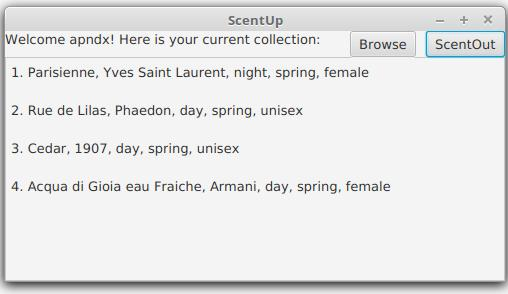
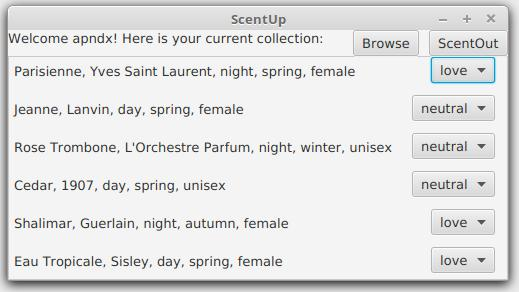
dokumentointia: arkkitehtuuria, käyttöohjetta, sekvenssikaavioita

Changed region(s): [[0.0, 0.0, 1.0, 0.9863]]

diff --git a/ScentUp/src/main/java/scentup/ui/ScentUpGui.java b/ScentUp/src/main/java/scentup/ui/ScentUpGui.java
@@ -91,20 +91,6 @@ public class ScentUpGui extends Application {
     }
 
     /**
-     * Renders the scent list of the UserScents for the user logged in
-     *
-     */
-    public void redrawUserHasScentsList() {
-
-        scentNodes.getChildren().clear();
-
-        List<Scent> scentsUserHas = scentUpService.getScentsUserHas();
-        scentsUserHas.forEach(scent -> {
-            scentNodes.getChildren().add(createScentNode(scent));
-        });
-    }
-
-    /**
      * Renders the userScent list of the UserScents for the user logged in
      *
      */
@@ -170,7 +156,6 @@ public class ScentUpGui extends Application {
             } catch (SQLException ex) {
                 Logger.getLogger(ScentUpGui.class.getName()).log(Level.SEVERE, null, ex);
             }
-            //redrawUserHasScentsList();
             redrawUserHasNotScentsList();
             redrawUserHasUserScentsList();
         });
@@ -254,13 +239,13 @@ public class ScentUpGui extends Application {
         // stuff needed to login, add user's collection page
         HBox loginGroup = new HBox(10);
         TextField userNameLogin = new TextField("username");
-        Button loginButton = new Button("ScentIn");  //loginbutton
+        Button loginButton = new Button("ScentIn");
         loginGroup.setSpacing(20);
         loginGroup.getChildren().addAll(userNameLogin, loginButton);
 
         loginButton.setOnAction(e -> {
 
-            // first setup
+            // button that takes to loggedIn scene
             String username = userNameLogin.getText();
             menuLabel.setText("Welcome " + username + "! Here is your current collection: ");
             try {
@@ -301,9 +286,6 @@ public class ScentUpGui extends Application {
         loginPane.getChildren().addAll(loginMessage, loginGroup, addNewUserButton, newScentButton);
         loginScene = new Scene(loginPane);
 
-        
-        
-        
         // stuff needed for add new user page
         VBox newUserPane = new VBox(10);
 
@@ -358,9 +340,6 @@ public class ScentUpGui extends Application {
         newUserPane.getChildren().addAll(creationMessage, newUsernamePane, newNamePane, createUserButton, outFromCreateUserButton);
         newUserScene = new Scene(newUserPane, 400, 250);
 
-        
-        
-        
         // stuff for new scent page
         VBox newScentPane = new VBox(10); // group pane for all the elements
 
@@ -420,9 +399,14 @@ public class ScentUpGui extends Application {
         outOfScentCreation.setOnAction(e -> {
 
             if (scentUpService.getLoggedIn() == null) {
+
+                ScentNameInput.setText("");
+                scentBrandInput.setText("");
                 primaryStage.setScene(loginScene);
             } else {
-
+                ScentNameInput.setText("");
+                scentBrandInput.setText("");
+                      
                 primaryStage.setScene(browseScene);
             }
 
@@ -436,7 +420,7 @@ public class ScentUpGui extends Application {
             String scentbrand = scentBrandInput.getText();
 
             if (scentname.length() < 1 || scentbrand.length() < 1) {
-                creationMessage.setText("username or name too short");
+                creationMessage.setText("name or brand of the scent too short");
                 creationMessage.setTextFill(Color.RED);
             } else {
                 try {
@@ -501,10 +485,6 @@ public class ScentUpGui extends Application {
 
         newScentScene = new Scene(newScentPane, 400, 300);
 
-        
-        
-        
-        
         // main scene, logged in
         ScrollPane scentScrollbar = new ScrollPane();
         BorderPane mainPane = new BorderPane(scentScrollbar);
@@ -534,10 +514,7 @@ public class ScentUpGui extends Application {
         redrawUserHasUserScentsList();
         scentScrollbar.setContent(userScentNodes);
         mainPane.setTop(menuPane);
-        
-        
-        
-        
+
         //browse page 
         ScrollPane browseScrollbar = new ScrollPane();
         BorderPane browsePane = new BorderPane(browseScrollbar);
@@ -571,9 +548,6 @@ public class ScentUpGui extends Application {
         browseScrollbar.setContent(browseableScentNodes);
         browsePane.setTop(browseMenuPane);
 
-        
-        
-        
         // seutp primary stage
         primaryStage.setTitle("ScentUp");
         primaryStage.setScene(loginScene);

diff --git a/ScentUp/src/test/java/scentup/domain/ServiceTest.java b/ScentUp/src/test/java/scentup/domain/ServiceTest.java
@@ -199,5 +199,14 @@ public class ServiceTest {
         userScents.delete(testuser.getUserId(), testscent2.getScentId());
 
     }
+    
+    @Test
+    public void loggedInHandledCorrectly() throws SQLException {
+        service.login(randomuser);
+        assertEquals(testuser, service.getLoggedIn());
+        service.logout();
+        assertNull(service.getLoggedIn());
+
+    }
 
 }

diff --git a/dokumentointi/arkkitehtuuri.md b/dokumentointi/arkkitehtuuri.md
@@ -4,12 +4,9 @@
 
 Ohjelman rakenne noudattelee kolmitasoista kerrosarkkitehtuuria, ja koodin pakkausrakenne on seuraava:
 
-<img src="https://github.com/apndx/otm-harjoitustyo/blob/master/dokumentointi/ScentUpPackages.png" width="300">
+<img src="https://github.com/apndx/otm-harjoitustyo/blob/master/dokumentointi/ScentUpPackages.png" width="200">
 
-Pakkaus scentup.ui sisältää JavaFX:llä toteutetun käyttöliittymän, lisäksi löytyy vaihtoehtoinen tekstikäyttöliittymä.
-Käyttöliittymän voi valita kommentoimalla Main luokasta piiloon sen käyttöliittymän aloituskäskyt, jota ei haluta käyttää.
-
-Pakkaus scentup.domain sisältää sovelluslogiikan, ja scentup.dao tietojen pysyväistallennuksesta ja hausta vastaavan koodin.
+Pakkaus scentup.ui sisältää JavaFX:llä toteutetun käyttöliittymän. Pakkaus scentup.domain sisältää sovelluslogiikan, ja scentup.dao tietojen pysyväistallennuksesta ja hausta vastaavan koodin.
 
 ## Käyttöliittymä
 
@@ -20,11 +17,11 @@ Käyttöliittymä sisältää viisi erillistä näkymää:
  - kirjautumisen jälkeen käyttäjä näkee listauksen valitsemistaan hajuvesistä, sivulta voi myös siirtyä hakemaan uusia hajuvesiä
  - käyttäjäsivulta pääsee selaamaan hajuvesiä, joita ei ole vielä käyttäjän kokoelmassa, näistä käyttäjä voi valita omaan kokoelmaansa uuden hajuveden
 
-Jokainen näistä on toteutettu omana Scene -oliona.  Näkymistä yksi kerrallaan on näkyvissä, eli sijoitettuna sovelluksen stageen. Käyttöliittyä on rakennettu ohjelmallisesti luokassa scentup.ui.ScentUpGui.
+Jokainen näistä on toteutettu omana Scene -oliona. Näkymistä yksi kerrallaan on näkyvissä, eli sijoitettuna sovelluksen stageen. Käyttöliittyä on rakennettu ohjelmallisesti luokassa scentup.ui.ScentUpGui.
 
-Käyttöliittymä kutsuu sopivin parametrein sovelluslogiikan toteuttavan olion scentUpServicen metodeja.
+Käyttöliittymä kutsuu sopivin parametrein sovelluslogiikan toteuttavan olion _scentUpServicen_ metodeja.
 
-Kun sovelluksessa käyttäjän hajuvesikokoelman tilanne muuttuu, eli kun käyttäjä kirjautuu, tai uusi hajuvesi valitaan kokoelmaa, kutsutaan sovelluksen metodeja redrawUserHasScentsList ja redrawUserHasNotScentsList. Näin listausnäkyvät renderöityvät uudelleen sen mukaan, kumpaan listaukseen hajuvesi kuuluu.
+Kun sovelluksessa käyttäjän hajuvesikokoelman tilanne muuttuu, eli kun käyttäjä kirjautuu,  uusi hajuvesi valitaan kokoelmaan, tai hajuveden preferenssiä muututaan, kutsutaan sovelluksen metodeja redrawUserHasUserScentsList ja redrawUserHasNotScentsList. Näin listausnäkymät renderöityvät uudelleen sen mukaan, kumpaan listaukseen hajuvesi kuuluu.
 
 ## Sovelluslogiikka
 
@@ -33,17 +30,20 @@ Sovelluksen loogisen datamallin muodostavat luokat User, Scent ja UserScent. Luo
 <img src="https://github.com/apndx/otm-harjoitustyo/blob/master/dokumentointi/ScentLuokkakaavio.png" width="750">
 
 Toiminnallisista kokonaisuuksista vastaa luokka ScentUpService. Luokka tarjoaa käyttöliittymän toiminnoille metodit. Näitä ovat esim:
- - boolean createUserScent(Integer userId, Integer scentIdFor, Date dateNow, Integer pref, Integer act)
- - User getLoggedIn()
- - List<Scent> getScentsUserHas()
- - List<Scent> getScentsUserHasNot() 
+
  - boolean createUser(String username, String name)
  - boolean doesScentExist(String scentName, String brandName)
  - void createScent(Scent scent)
+ - boolean createUserScent(Integer userId, Integer scentIdFor, Date dateNow, Integer pref, Integer act)
+
+ - List<Scent> getScentsUserHas()
+ - List<Scent> getScentsUserHasNot() 
+
  - boolean login(String username)
+ - User getLoggedIn()
  - void logout() 
 
-_ScentUpService_ pääsee käsiksi käyttäjiin ja hajuvesiin tietojen tallennuksesta vastaavien pakkauksessa _scentup.dao_ sijaitsevien rajapinnat toteuttavien _ScentDao_ , _UserDao_ ja _UserScentDao_ luokkien kautta. Luokkien toteutuksen [injektoidaan](https://en.wikipedia.org/wiki/Dependency_injection) sovelluslogiikalle konstruktorikutsun yhteydessä.
+_ScentUpService_ pääsee käsiksi käyttäjiin ja hajuvesiin tietojen tallennuksesta vastaavien pakkauksessa _scentup.dao_ sijaitsevien rajapinnat _UDao_, SDao_ ja _USDao_ toteuttavien _UserDao_, _ScentDao_ ja _UserScentDao_ luokkien kautta. Luokkien toteutukset [injektoidaan](https://en.wikipedia.org/wiki/Dependency_injection) sovelluslogiikalle konstruktorikutsun yhteydessä.
 
 Ohjelman osien suhdetta kuvaava luokka/pakkauskaavio:
 
@@ -65,25 +65,27 @@ Tietokannassa on jo valmiina taulut ScentCategory ja Category ohjelman mahdollis
 
 Kuvataan seuraavaksi sovelluksen toimintalogiikka muutaman päätoiminnallisuuden osalta sekvenssikaaviona.
 
-#### Käyttäjän kirjautuminen tekstikäyttöliittymän kautta
+#### Käyttäjän kirjautuminen
 
-Tekstikäyttöliittymässä aukeaa ensin päävalikko:
+Kun kirjautumisnäkymässä on syötekenttään kirjoitettu käyttäjätunnus ja klikataan painiketta _ScentIn_ etenee sovelluksen kontrolli seuraavasti:
 
-What to do next?
-1. Create a new User
-2. Add a new Scent
-3. ScentIn
-4. ScentOut
+<img src="https://github.com/apndx/otm-harjoitustyo/blob/master/dokumentointi/ScentUpLoginGUI.png" width="1000">
 
-Kun käyttäjä kirjoittaa "3", etenee ohjelman suoritus seuraavasti:
+Painikkeen painamiseen reagoiva [tapahtumankäsittelijä](https://github.com/apndx/otm-harjoitustyo/blob/master/ScentUp/src/main/java/scentup/ui/ScentUpGui.java#L247) kutsuu sovelluslogiikan _scentUpService_ metodia [login](https://github.com/apndx/otm-harjoitustyo/blob/master/ScentUp/src/main/java/scentup/domain/ScentUpService.java#L188) antaen parametrina kirjautuneen käyttäjätunnuksen. Sovelluslogiikka selvittää _userDaon_:n avulla onko käyttäjätunnus olemassa. Jos on, eli kirjautuminen onnistuu, vaihtaa käyttöliittymä näkymäksi _sceneLoggedIn_ joka on sovelluksen päänäkymä. Näkymään renderöidään kirjautuneen käyttäjän hajuvesikokoeman listana.
 
-<img src="https://github.com/apndx/otm-harjoitustyo/blob/master/dokumentointi/ScentUpLogin.png" width="1000">
+#### Uuden käyttäjän luominen
 
-Käyttäjän syötteeseen reagoiva tekstikäyttöliittymä kutsuu sovelluslogiikan metodia login antaen parametriksi kirjautuneen käyttäjätunnuksen.
-Sovelluslogiikka selvittää userDao:n avulla, onko käyttäjätunnus olevmassa. Jos on, kirjautuminen onnistuu.
-Tämän jälkeen tekstikäyttöliittymä toivottaa käyttäjän tervetulleeksi, ja tulostaa seuraavan valikon:
+Kun uuden käyttäjän luomisnäkymässä on syötetty käyttäjätunnus joka ei ole jo käytössä sekä nimi ja klikataan painiketta _Add a new User_ etenee sovelluksen kontrolli seuraavasti (tässä kaaviossa on daon ja tietokannan välinen toiminta abstrahoitu pois):
 
-What to do next?
-1. Print what I have chosen
-2. Browse and add to collection (under construction)
-3. Logout
+<img src="https://github.com/apndx/otm-harjoitustyo/blob/master/dokumentointi/ScentUpNewUserSec.png" width="800">
+
+[Tapahtumakäsittelijä](https://github.com/apndx/otm-harjoitustyo/blob/master/ScentUp/src/main/java/scentup/ui/ScentUpGui.java#L316) kutsuu sovelluslogiikan metodia [createUser](https://github.com/apndx/otm-harjoitustyo/blob/master/ScentUp/src/main/java/scentup/domain/ScentUpService.java#L140) antaen parametriksi luotavan käyttäjän tiedot. Sovelluslogiikka selvittää _userDao_:n avulla onko käyttäjätunnus olemassa. Jos ei, eli uuden käyttäjän luominen on mahdollista, luo sovelluslogiikka _User_-olion ja tallettaa sen kutsumalla _userDao_:n metodia _saveOrNot_. Tästä seurauksena on se, että käyttöliittymä vaihtaa näkymäksi _loginScenen_ eli kirjautumisnäkymän.
+
+#### Uuden hajuveden luominen
+
+Kun uuden hajuveden luomisnäkymässä on syötetty hajuveden nimi ja merkki, valittu vaihtoehdoista hajuveden ominaisuudet ja klikattu nappia _I'm ready, let's do it!_ etenee sovelluksen kontrolli seuraavasti (tässä kaaviossa on daon ja tietokannan välinen toiminta abstrahoitu pois):
+
+<img src="https://github.com/apndx/otm-harjoitustyo/blob/master/dokumentointi/ScentUpNewScentSec.png" width="800">
+
+[Tapahtumakäsittelijä](https://github.com/apndx/otm-harjoitustyo/blob/master/ScentUp/src/main/java/scentup/ui/ScentUpGui.java#L418) kutsuu sovelluslogiikan metodia [doesScentExist](https://github.com/apndx/otm-harjoitustyo/blob/master/ScentUp/src/main/java/scentup/domain/ScentUpService.java#L161) ja ScentDao tarkistaa nimen ja merkin perusteella onko hajuvesi jo tietokannassa. Kun on varmistettu, että hajuvettä ei olla lisäämässä tuplana, tapahtumakäsittelijä luo scent-olion, ja kutsuu sovelluslogiikan metodia [createScent](https://github.com/apndx/otm-harjoitustyo/blob/master/ScentUp/src/main/java/scentup/domain/ScentUpService.java#L176) antaen scent olion tälle parametrina. _ScentDao_ tallentaa tämän jälkeen hajuveden tietokantaan käyttäen metodia _saveOrNot_. Tämän jälkeen tapahtumakäsittelijä palauttaa loginScene -näkymämän ja ilmoittaa _new scent added_.
+

diff --git a/dokumentointi/vaatimusmaarittely.md b/dokumentointi/vaatimusmaarittely.md
@@ -2,17 +2,25 @@
 
 ## Sovelluksen tarkoitus
 
-Sovellusta voi käyttää hajuveden valitsemiseen. Sovelluksella voi olla useampi rekisteröitynyt käyttäjä.
+Sovelluksessa on hajuvesitietokanta, josta käyttäjä voi valikoida oman kokoelmansa. Sovelluksella voi olla useampi rekisteröitynyt käyttäjä.
 
 ## Käyttäjät
 
-Alkuvaiheessa sovelluksella on vain peruskäyttäjä.
+Alkuvaiheessa sovelluksella on vain peruskäyttäjiä.
 
 ## Käyttöliittymäluonnos
 
 Sovellus koostuu viidestä näkymästä:
 
-<img src="https://github.com/apndx/otm-harjoitustyo/blob/master/dokumentointi/vaatimusmaar.jpg" width="750">
+<img src="https://github.com/apndx/otm-harjoitustyo/blob/master/dokumentointi/kirjautumisnakyma.jpg" width="400">
+
+<img src="https://github.com/apndx/otm-harjoitustyo/blob/master/dokumentointi/uusikayttaja.jpg" width="400">
+
+<img src="https://github.com/apndx/otm-harjoitustyo/blob/master/dokumentointi/createscent.jpg" width="400">
+
+<img src="https://github.com/apndx/otm-harjoitustyo/blob/master/dokumentointi/loggedin.jpg" width="400">
+
+<img src="https://github.com/apndx/otm-harjoitustyo/blob/master/dokumentointi/browse.jpg" width="400">
 
 ## Perusversion tarjoama toiminnallisuus
 
@@ -23,22 +31,22 @@ Sovellus koostuu viidestä näkymästä:
    - Käyttäjä voi kirjautua järjestelmään
       - Kirjautuminen onnistuu syötettäessä käyttäjätunnus lomakkeelle
       - Jos käyttäjää ei ole, tulee virheilmoitus
+   - Käyttäjä voi luoda tietokantaan uusia hajuvesiä, näihin on näkyvyys kaikilla käyttäjillä
 
 ### Kirjautumisen jälkeen
 
-   - Valittavana on näkymä, jossa voi lisätä uusia hajuvesiä
-       - Hajuvedelle määritellään nimi, merkki, vuorokaudenaika, vuodenaika ja sukupuoli
-   - Käyttäjä näkee oman sivunsa jossa on aiemmin tehdyt käyttäjäkohtaiset valinnat, joissa näkyy valintapäivä
-       - Valintoihin voi myös merkitä käyttäjäkohtaisen tiedon onko valinta huono, ok, vai suosikki
-   - Toisessa näkymässä valintoja voi poistaa ja lisätä	
-   - Käyttäjä voi kirjautua ulos
+   - Kirjautumisen jälkeen tullaan käyttäjän omalle sivulle, jossa on listattu käyttäjän hajuvesikokoelma
+       - Hajuvedestä on listattu nimi, merkki, vuorokaudenaika, vuodenaika ja sukupuoli
+       - Listauksessa on myös vetovalikko jokaisen hajuveden kohdalla, siitä voi valita miten onnistunut valinta on kyseessä (dislike, neutral, love)
+   - Näkymästä voi siirtyä kokoelmaan kuulumattomien hajuvesien selaustoimintoon (Browse). Sen listauksesta käyttäjä voi lisätä hajuvesiä omaan kokoelmaansa, ja sivulta on myös mahdollista siirtyä uuden hajuveden lisäyssivulle.	
+   - Käyttäjä voi kirjautua ulos (ScentOut)
 
 ## Jatkokehitysideioita
 
-   - Hajuvesiin voi lisätä tuoksuominaisuuksia, näitä varten tehdään tietokantataulut valmiiksi
+   - Hajuvesiin voi lisätä kategorian, näitä varten tietokannassa on valmiina tietokantataulut Category ja ScentCategory
    - Olemassaolevien hajuvesien ominaisuuksien muokkaus
    - Hajuvesien hakutoimintoja eri ominaisuuksien perusteella
    - Turvallisempi kirjautuminen
    - Sovellukseen pääkäyttäjä, ja hajuvesien lisäys vaatii pääkäyttäjän oikeudet
-   - Toiminto jolla hajuvesiä voi lisätä useita kerralla tiedostosta 
-   - Hajuvesikategoriat
+   - Toiminto jolla hajuvesiä voi lisätä tietokantaan useita kerralla tiedostosta 
+  

diff --git a/dokumentointi/kayttoohje.md b/dokumentointi/kayttoohje.md
@@ -1,11 +1,12 @@
 # Käyttöohje
 
+Lataa tiedosto ScentUp.jar.
 
 ## Konfigurointi
 
-Jos haluat hyödyntää tietokantaan valmiiksi lisättyjä hajuvesiä, voit ottaa mukaan tiedoston ScentUp.db joka löytyy zip-paketista, sekä valmiinä löytyvän config.properties tiedosto. Oikea paikka näille tiedostoille on ohjelman juurikansiossa. Jos tiedostot puuttuvat, luodaan niistä uudet versiot ensimmäisen käynnistyksen yhteydessä.
+Jos haluat hyödyntää tietokantaan valmiiksi lisättyjä hajuvesiä, voit ottaa mukaan tiedoston ScentUp.db joka löytyy zip-paketista, sekä valmiinä löytyvän config.properties tiedoston. Oikea paikka näille tiedostoille on ohjelman juurikansiossa. Jos tiedostot puuttuvat, luodaan niistä uudet versiot ensimmäisen käynnistyksen yhteydessä.
 
-Jos haluat vaihtaa käyttöön eri tietokannan, voit vaihtaa sen muuttamalla config.properties tiedostoon "database =" jälkeen oman tietokantasi nimen.
+Jos haluat vaihtaa käyttöön eri tietokannan, voit vaihtaa sen muuttamalla config.properties tiedostoon "database =" jälkeen oman tietokantasi nimen, ja lisätä oman tietokantasi ohjelman juureen.
 
 ## Ohjelman käynnistäminen
 
@@ -49,7 +50,7 @@ Kun käyttäjä on kirjautunut ohjelmaan olemassaolevalla käyttäjätunnuksella
 
 <img src="https://github.com/apndx/otm-harjoitustyo/blob/master/dokumentointi/loggedin.jpg" width="400">
 
-Tästä näkymästä voi joko kirjautua ulos painikkeella _ScentOut_ tai siirtyä valitsemaan kokoelmaan lisää hajuvesiä painikkeella _Browse_.
+Tästä näkymästä voi joko kirjautua ulos painikkeella _ScentOut_ tai siirtyä valitsemaan kokoelmaan lisää hajuvesiä painikkeella _Browse_. Jokaisen hajuveden kohdalle voi myös merkitä vetovalikosta miten onnistunut valinta on kyseessä (dislike/neutral/love).
 
 ## Uusien hajuvesien valitseminen käyttäjän kokoelmaan
 

diff --git a/dokumentointi/testausdokumentti.md b/dokumentointi/testausdokumentti.md
@@ -18,5 +18,19 @@ DAO-luokkien toiminnallisuus on testattu luomalla testeissä tilapäinen tiedost
 
 ### Testauskattavuus
 
-Käyttöliittymäkerrosta lukuunottamatta sovelluksen testauksen rivikattavuus on 86 % ja haaraumakattavuus on 70 %.
+Käyttöliittymäkerrosta lukuunottamatta sovelluksen testauksen rivikattavuus on 94 % ja haaraumakattavuus on 76 %.
 
+<img scr= https://github.com/apndx/otm-harjoitustyo/blob/master/dokumentointi/jacoco.jpg" width="800">
+
+Testaamatta jäivät osa equals-metodin haaroista, tilanteet joissa tietokanta on jostain syystä korruptoitunut, sekä osa catch-haaroista.
+
+## Järjestelmätestaus
+
+### Asennus ja konfigurointi
+
+
+Sovelluksen järjestelmätestaus on suoritettu manuaalisesti.
+
+### Toiminnallisuudet 
+
+## Sovellukseen jääneet laatuongelmat

diff --git a/dokumentointi/tuntikirjanpito.md b/dokumentointi/tuntikirjanpito.md
@@ -27,8 +27,8 @@
 | 6.5.  |1 h| koodikatselmuspalautteen ehdotusten toteutusta, refaktorointia ja javadoceja |
 | 9.5.  |5 h 30 min| java.docs, refaktorointi ja koodin siistiminen, config.tiedosto, testitietokanta, testauskattavuutta lisää, testi.db |
 | 10.5.  |7 h | käyttäjän kokoelmalistan olion vaihto scentistä userscentiin, preference-valikko, testejä uudelle toiminnallisuudelle |
-| 11.5.  |3 h 30 min | refaktorointia, testikattavuuden lisäystä |
+| 11.5.  |6 h 30 min | refaktorointia, testikattavuuden lisäystä, dokumentointia (päivitetty arkkitehtuuri, käyttöohje, vaatimusmäärittely) |
 
-yht. 75 h 15 min 
+yht. 78 h 15 min 
 
 
